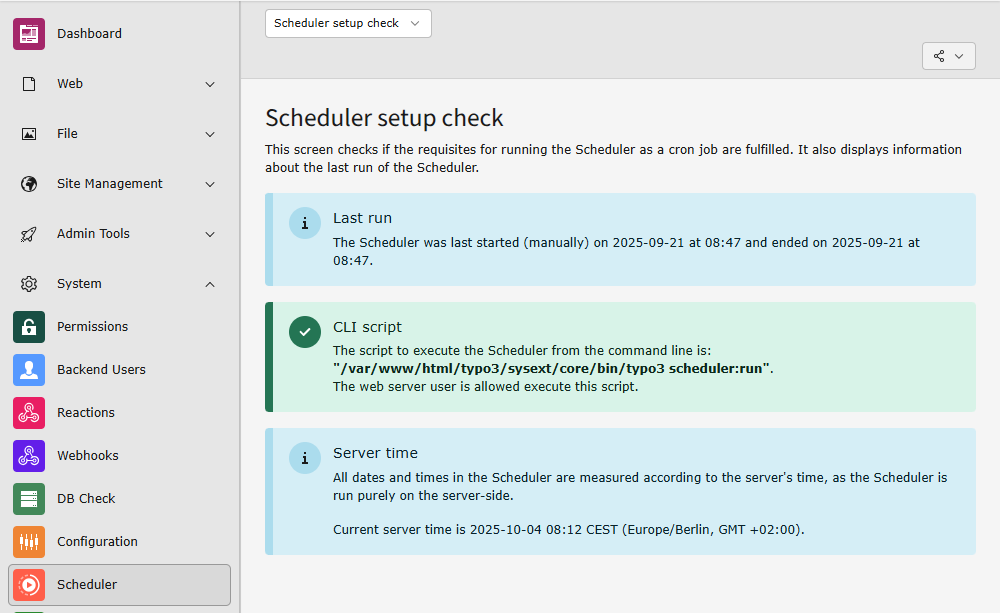
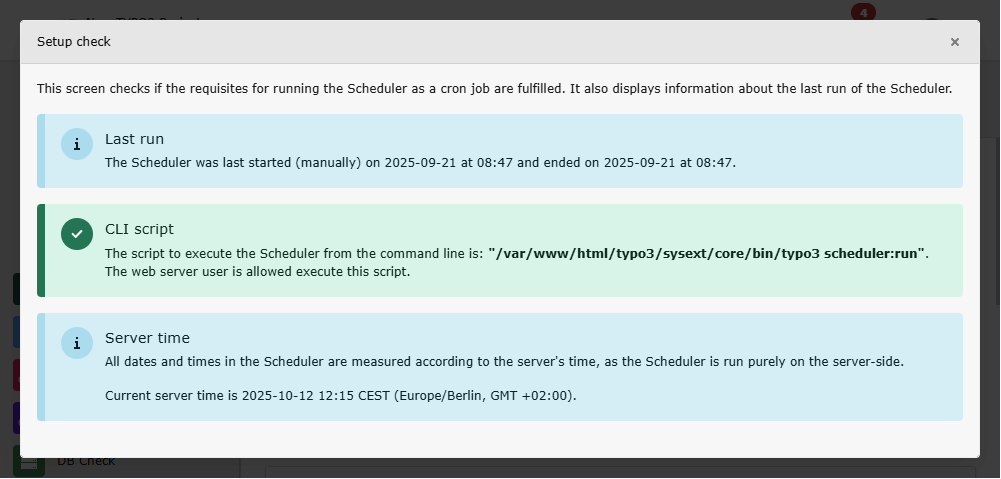
[DOCS] Scheduler Status Check popup modal
Resolves: #107645
Releases: main

diff --git a/Documentation/Installation/SetupCheck/Index.rst b/Documentation/Installation/SetupCheck/Index.rst
@@ -7,14 +7,15 @@
 Checking the setup of the scheduler extension
 =============================================
 
-After installing the Scheduler, go to its BE module and call up the
-"Setup check" screen which runs a couple of basic checks on your
-installation. It will probably look something like this:
+The scheduler check provides useful information for setting up cronjobs.
+
+..  figure:: /Images/SetupCheckButton.png
+    :alt: The TYPO3 Backend module "Scheduler" with Button "Setup check" highlighted
+
+    Click on the button :guilabel:`Setup check` to open the popup
 
 ..  figure:: /Images/SetupCheck.png
-    :alt: Screenshot of the Scheduler backend module, option "Scheduler setup check" chosen
-
-    Checking the setup of the Scheduler
+    :alt: The "Setup check" modal popup in module "Scheduler"
 
 The first message shows when the scheduler was last run. If it was never run
 there will be a warning displayed.
